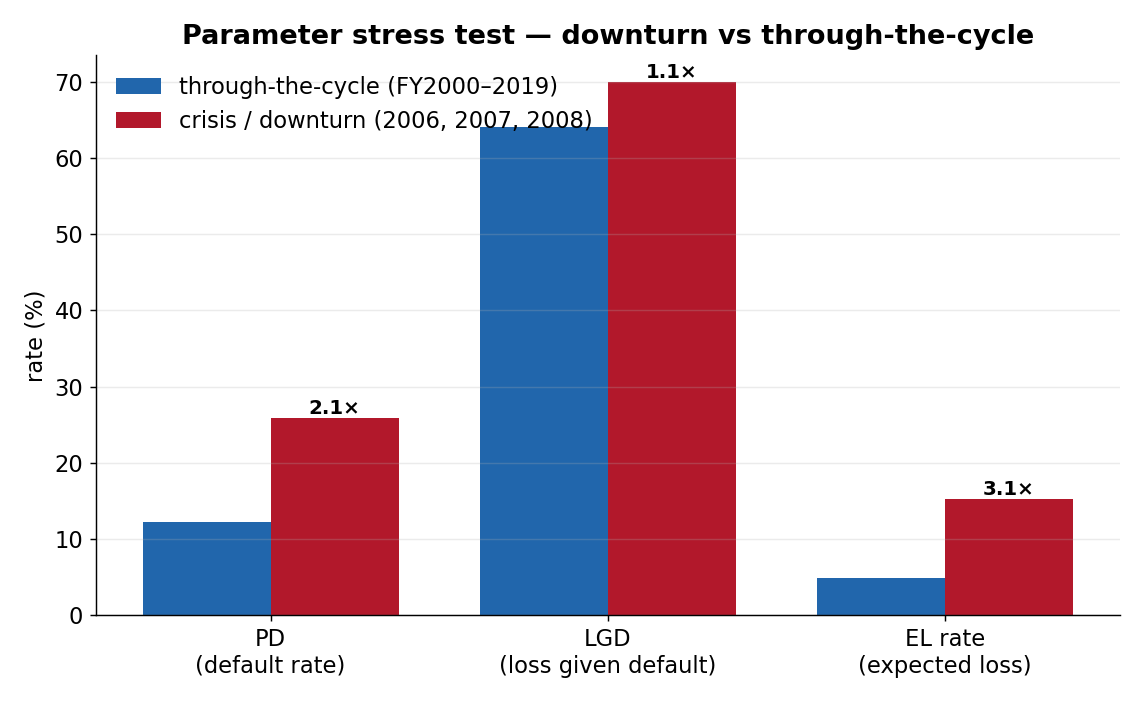
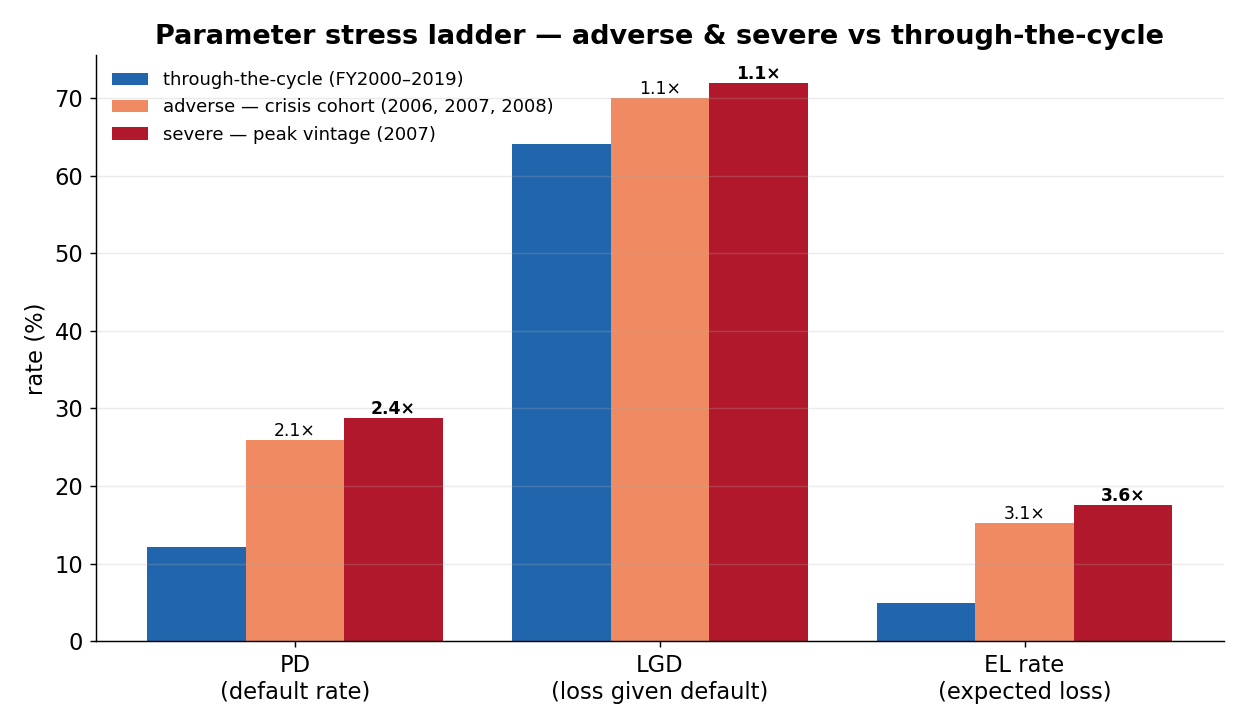
Show both downturn severities in the parameter stress
The SBA data holds one macro downturn (2008) but supports a two-level
stress ladder read off realised cohorts:
- adverse  = crisis cohort pooled (2006-08): EL rate 15.3% (3.1x)
- severe   = single worst vintage, auto-detected (2007 peak): EL 17.6% (3.6x)

credit_risk_parameters_stress now reports TTC + adverse + severe with
multipliers; report §10d, README §4 and the stress chart (3-bar ladder)
updated. README §4 also notes the two stress lenses in the repo: this
parameter stress (whole-book baseline) vs the limit-linked charge-off
stress in §9 (seasoned baseline). Tests updated (33 pass).

Changed region(s): [[0.0, 0.0897, 0.979, 0.9573], [0.1224, 0.0299, 0.9484, 0.0897], [0.9178, 0.7479, 0.9484, 0.7778]]

diff --git a/src/credit_parameters.py b/src/credit_parameters.py
@@ -136,22 +136,34 @@ def credit_risk_parameters_by_product(df: pd.DataFrame) -> pd.DataFrame:
 
 def credit_risk_parameters_stress(df: pd.DataFrame,
                                   config: dict | None = None) -> pd.DataFrame:
-    """Stress the parameters: through-the-cycle book vs the 2006-08 downturn.
+    """Stress the parameters using the two downturn severities the data contains.
 
-    The financial-crisis vintages the data already contains are used as a
-    realised, data-grounded downturn scenario. For each parameter we report the
-    through-the-cycle (whole-book) value, the crisis-cohort value, and the
-    implied **stress multiplier** (crisis / TTC). PD and LGD both rise in the
-    downturn, so EL rises multiplicatively — a downturn-PD / downturn-LGD view
-    for capital and limit-setting (the crisis vintages are fully seasoned, so
-    these are near-final outcomes).
+    The SBA data (FY2000-2019) holds one macro downturn — the 2008 financial
+    crisis — but it supports a two-level stress *ladder* read straight off the
+    realised cohorts:
+
+      * **Adverse / downturn** — the crisis cohort pooled (config
+        ``stress.crisis_vintages``, 2006-08).
+      * **Severe** — the single worst seasoned vintage (the peak of the crisis,
+        auto-detected by charge-off rate — 2007).
+
+    For each parameter we report the through-the-cycle (whole-book) value and
+    both stressed values with their multiplier vs TTC. PD and LGD both rise, so
+    EL rises multiplicatively — the downturn-PD / downturn-LGD inputs for
+    stressed pricing and capital. (Crisis vintages are fully seasoned, so these
+    are near-final outcomes.)
     """
     cfg = config or load_config()
     crisis_vintages = sorted(set(cfg["stress"]["crisis_vintages"]))
 
     ttc = _parameter_frame(df, None, "ttc").iloc[0]
-    crisis = _parameter_frame(
-        df[df["vintage"].isin(crisis_vintages)], None, "crisis").iloc[0]
+    downturn = _parameter_frame(
+        df[df["vintage"].isin(crisis_vintages)], None, "downturn").iloc[0]
+
+    # Severe = the single worst seasoned vintage by charge-off rate (auto).
+    seasoned = df[df["fully_seasoned"]]
+    peak_vintage = int(seasoned.groupby("vintage")["is_default"].mean().idxmax())
+    severe = _parameter_frame(df[df["vintage"] == peak_vintage], None, "severe").iloc[0]
 
     specs = [
         ("pd_count", "PD — default rate (obligor-weighted)"),
@@ -162,22 +174,24 @@ def credit_risk_parameters_stress(df: pd.DataFrame,
     ]
     rows = []
     for key, label in specs:
-        b, s = float(ttc[key]), float(crisis[key])
+        b, d, s = float(ttc[key]), float(downturn[key]), float(severe[key])
         rows.append({
             "metric_key": key,
             "parameter": label,
             "through_the_cycle": round(b, 4),
-            "crisis_downturn": round(s, 4),
-            "stress_multiplier": round(s / b, 2) if b else float("nan"),
+            "adverse_downturn": round(d, 4),
+            "adverse_multiplier": round(d / b, 2) if b else float("nan"),
+            "severe": round(s, 4),
+            "severe_multiplier": round(s / b, 2) if b else float("nan"),
         })
     out = pd.DataFrame(rows)
-    out["crisis_vintages"] = ", ".join(str(v) for v in crisis_vintages)
+    out["adverse_vintages"] = ", ".join(str(v) for v in crisis_vintages)
+    out["severe_vintage"] = peak_vintage
     _log.info(
-        "Parameter stress (crisis %s): PD %.1f%%->%.1f%%, LGD %.1f%%->%.1f%%, "
-        "EL %.1f%%->%.1f%%", crisis_vintages,
-        ttc["pd_count"] * 100, crisis["pd_count"] * 100,
-        ttc["lgd"] * 100, crisis["lgd"] * 100,
-        ttc["el_rate"] * 100, crisis["el_rate"] * 100,
+        "Parameter stress — EL rate: TTC %.1f%% -> adverse %.1f%% (%s) -> "
+        "severe %.1f%% (%d peak)",
+        ttc["el_rate"] * 100, downturn["el_rate"] * 100, crisis_vintages,
+        severe["el_rate"] * 100, peak_vintage,
     )
     return out
 

diff --git a/tools/make_figures.py b/tools/make_figures.py
@@ -118,26 +118,32 @@ ax.set_title("Expected-loss rate by sector")
 ax.grid(axis="y", alpha=0)
 save(fig, "el_by_sector.png")
 
-# 6. Parameter stress — downturn vs through-the-cycle ------------------------
+# 6. Parameter stress — the two downturn severities in the data --------------
 st = pd.read_csv(TAB / "09_credit_risk_parameters_stress.csv").set_index("metric_key")
-vint = str(st["crisis_vintages"].iloc[0])
+adv_v = str(st["adverse_vintages"].iloc[0])
+sev_v = int(st["severe_vintage"].iloc[0])
 keys = ["pd_count", "lgd", "el_rate"]
 labels = ["PD\n(default rate)", "LGD\n(loss given default)", "EL rate\n(expected loss)"]
 ttc = [st.loc[k, "through_the_cycle"] * 100 for k in keys]
-cri = [st.loc[k, "crisis_downturn"] * 100 for k in keys]
-mult = [st.loc[k, "stress_multiplier"] for k in keys]
+adv = [st.loc[k, "adverse_downturn"] * 100 for k in keys]
+sev = [st.loc[k, "severe"] * 100 for k in keys]
+adv_m = [st.loc[k, "adverse_multiplier"] for k in keys]
+sev_m = [st.loc[k, "severe_multiplier"] for k in keys]
 x = np.arange(len(keys))
-w = 0.38
-fig, ax = plt.subplots(figsize=(8.8, 5.4))
-ax.bar(x - w / 2, ttc, w, label="through-the-cycle (FY2000–2019)", color=BLUE)
-b2 = ax.bar(x + w / 2, cri, w, label=f"crisis / downturn ({vint})", color=RED)
-for xi, c, m in zip(x, cri, mult):
-    ax.text(xi + w / 2, c, f"{m:.1f}×", ha="center", va="bottom", fontsize=11, fontweight="bold")
+w = 0.27
+fig, ax = plt.subplots(figsize=(9.6, 5.6))
+ax.bar(x - w, ttc, w, label="through-the-cycle (FY2000–2019)", color=BLUE)
+ax.bar(x, adv, w, label=f"adverse — crisis cohort ({adv_v})", color="#ef8a62")
+ax.bar(x + w, sev, w, label=f"severe — peak vintage ({sev_v})", color=RED)
+for xi, v, m in zip(x, adv, adv_m):
+    ax.text(xi, v, f"{m:.1f}×", ha="center", va="bottom", fontsize=9.5)
+for xi, v, m in zip(x, sev, sev_m):
+    ax.text(xi + w, v, f"{m:.1f}×", ha="center", va="bottom", fontsize=9.5, fontweight="bold")
 ax.set_xticks(x)
 ax.set_xticklabels(labels)
 ax.set_ylabel("rate (%)")
-ax.set_title("Parameter stress test — downturn vs through-the-cycle")
-ax.legend(frameon=False)
+ax.set_title("Parameter stress ladder — adverse & severe vs through-the-cycle")
+ax.legend(frameon=False, fontsize=10)
 ax.grid(axis="x", alpha=0)
 save(fig, "parameters_stress.png")
 

diff --git a/src/report.py b/src/report.py
@@ -421,20 +421,23 @@ def build_markdown_report(
             a("")
 
         if credit_params_stress is not None and not credit_params_stress.empty:
-            vint = credit_params_stress["crisis_vintages"].iloc[0]
-            a(f"**10d. Parameter stress test — through-the-cycle vs the downturn "
-              f"({vint}).** The financial-crisis vintages are a realised, "
-              "data-grounded downturn: **both PD and LGD rise**, so EL rises "
-              "multiplicatively. These are the downturn-PD / downturn-LGD inputs "
-              "for stressed pricing and capital:")
+            adv = credit_params_stress["adverse_vintages"].iloc[0]
+            sev = int(credit_params_stress["severe_vintage"].iloc[0])
+            a("**10d. Parameter stress test — the two downturn severities in the "
+              "data.** The SBA data holds one macro downturn (the 2008 crisis) "
+              "but supports a two-level stress ladder read off realised cohorts: "
+              f"**adverse** = the crisis cohort pooled ({adv}); **severe** = the "
+              f"single worst vintage ({sev}, the peak). PD and LGD both rise, so "
+              "EL rises multiplicatively — downturn-PD / downturn-LGD inputs for "
+              "stressed pricing and capital:")
             a("")
-            a("| Parameter | Through-the-cycle | Crisis / downturn | Stress multiplier |")
-            a("|---|---|---|---|")
+            a(f"| Parameter | Through-the-cycle | Adverse ({adv}) | × | Severe ({sev}) | × |")
+            a("|---|---|---|---|---|---|")
             for _, r in credit_params_stress.iterrows():
-                money = r["metric_key"] == "ead_avg"
-                fmt = _fmt_money if money else _fmt_pct
+                fmt = _fmt_money if r["metric_key"] == "ead_avg" else _fmt_pct
                 a(f"| {r['parameter']} | {fmt(r['through_the_cycle'])} | "
-                  f"{fmt(r['crisis_downturn'])} | {r['stress_multiplier']:.2f}x |")
+                  f"{fmt(r['adverse_downturn'])} | {r['adverse_multiplier']:.2f}x | "
+                  f"{fmt(r['severe'])} | {r['severe_multiplier']:.2f}x |")
             a("")
 
     a("## Notes — APS 330 / Pillar 3 & governance")

diff --git a/tests/test_pipeline.py b/tests/test_pipeline.py
@@ -329,11 +329,13 @@ def test_credit_parameters_by_structure(base):
 def test_credit_parameters_stress(base, cfg):
     out = cp.credit_risk_parameters_stress(base, config=cfg)
     assert {"pd_count", "lgd", "el_rate"} <= set(out["metric_key"])
-    assert {"through_the_cycle", "crisis_downturn", "stress_multiplier"} <= set(out.columns)
-    # Crisis cohorts default worse → PD and EL multipliers exceed 1 in the fixture.
-    pd_row = out.set_index("metric_key").loc["pd_count"]
-    assert pd_row["crisis_downturn"] > pd_row["through_the_cycle"]
-    assert out.set_index("metric_key").loc["el_rate", "stress_multiplier"] > 1.0
+    assert {"through_the_cycle", "adverse_downturn", "adverse_multiplier",
+            "severe", "severe_multiplier"} <= set(out.columns)
+    s = out.set_index("metric_key")
+    # Crisis cohorts default worse than the book; severe (peak) >= adverse (pooled).
+    assert s.loc["pd_count", "adverse_downturn"] > s.loc["pd_count", "through_the_cycle"]
+    assert s.loc["el_rate", "adverse_multiplier"] > 1.0
+    assert s.loc["el_rate", "severe"] >= s.loc["el_rate", "adverse_downturn"]
 
 
 # --------------------------------------------------------------------------- #

diff --git a/README.md b/README.md
@@ -143,26 +143,37 @@ cost, opex and a capital charge. It varies ~9× across sectors:
 
 ## 4. Stress test — downturn PD / LGD / EL
 
-The 2006–08 financial-crisis vintages the data already contains are a **realised
-downturn scenario**. Both **PD and LGD rise**, so EL rises multiplicatively —
-the downturn-PD / downturn-LGD inputs for stressed pricing and capital
+The SBA data (FY2000–2019) contains **one** macro downturn — the 2008 financial
+crisis — but it supports a **two-level stress ladder** read straight off the
+realised cohorts (both are fully seasoned, so near-final):
+
+- **Adverse** = the crisis cohort pooled (2006–08)
+- **Severe** = the single worst vintage, the peak of the crisis (**2007**, auto-detected)
+
+Both **PD and LGD rise**, so EL rises multiplicatively
 ([09_…stress.csv](outputs/tables/09_credit_risk_parameters_stress.csv)):
 
-| Parameter | Through-the-cycle | Crisis / downturn (2006–08) | Stress multiplier |
-|---|---:|---:|---:|
-| PD — default rate (obligor-weighted) | 12.2% | 25.9% | **2.1×** |
-| PD — default rate (exposure-weighted) | 7.7% | 21.9% | **2.8×** |
-| LGD — loss given default | 64.0% | 70.0% | **1.1×** |
-| EAD — avg exposure per loan | $264,769 | $154,065 | 0.6× |
-| **EL rate — expected loss / exposure** | **4.9%** | **15.3%** | **3.1×** |
+| Parameter | Through-the-cycle | Adverse (2006–08) | × | Severe (2007) | × |
+|---|---:|---:|---:|---:|---:|
+| PD — default rate (obligor-weighted) | 12.2% | 25.9% | **2.1×** | 28.8% | **2.4×** |
+| PD — default rate (exposure-weighted) | 7.7% | 21.9% | **2.8×** | 24.4% | **3.2×** |
+| LGD — loss given default | 64.0% | 70.0% | **1.1×** | 71.9% | **1.1×** |
+| EAD — avg exposure per loan | $264,769 | $154,065 | 0.6× | $142,500 | 0.5× |
+| **EL rate — expected loss / exposure** | **4.9%** | **15.3%** | **3.1×** | **17.6%** | **3.6×** |
 
-![Parameter stress — downturn vs through-the-cycle](outputs/charts/parameters_stress.png)
+![Parameter stress ladder — adverse & severe vs through-the-cycle](outputs/charts/parameters_stress.png)
 
-The headline: **expected loss roughly triples (4.9% → 15.3%)** in a downturn,
-driven mostly by PD doubling with LGD adding ~9% on top. (EAD *falls* — crisis
-cohorts were smaller loans — so it is not a stress driver; exposure is fixed at
-approval.) This feeds the limit-linked charge-off stress in report §9 and
-[08_stress_scenario.csv](outputs/tables/08_stress_scenario.csv).
+The headline: **expected loss roughly triples** in a downturn (4.9% → 15.3%
+adverse → 17.6% severe), driven mostly by PD doubling with LGD adding ~9–12% on
+top. (EAD *falls* — crisis cohorts were smaller loans — so it is not a stress
+driver; exposure is fixed at approval.)
+
+> **Two stress views in the repo, by design.** This *parameter* stress (PD/LGD/EAD/EL,
+> whole-book TTC baseline) sits alongside the limit-linked **charge-off-rate
+> stress** in report §9 / [08_stress_scenario.csv](outputs/tables/08_stress_scenario.csv),
+> which uses a *seasoned-only* baseline (13.5%) so it can be re-tested against the
+> risk-appetite charge-off limit. Same crisis, two lenses — pricing/ECL inputs
+> here, appetite-limit breach there.
 
 ---
 

diff --git a/outputs/reports/report.md b/outputs/reports/report.md
@@ -255,15 +255,15 @@ _Realised, **through-the-cycle** parameters read off the FY2000-2019 outcome dat
 | Collateral | Secured | 436,969 | 8.8% | 62.9% | $410,653 | 3.4% |
 | Collateral | Unsecured | 650,050 | 14.5% | 64.8% | $166,705 | 7.5% |
 
-**10d. Parameter stress test — through-the-cycle vs the downturn (2006, 2007, 2008).** The financial-crisis vintages are a realised, data-grounded downturn: **both PD and LGD rise**, so EL rises multiplicatively. These are the downturn-PD / downturn-LGD inputs for stressed pricing and capital:
+**10d. Parameter stress test — the two downturn severities in the data.** The SBA data holds one macro downturn (the 2008 crisis) but supports a two-level stress ladder read off realised cohorts: **adverse** = the crisis cohort pooled (2006, 2007, 2008); **severe** = the single worst vintage (2007, the peak). PD and LGD both rise, so EL rises multiplicatively — downturn-PD / downturn-LGD inputs for stressed pricing and capital:
 
-| Parameter | Through-the-cycle | Crisis / downturn | Stress multiplier |
-|---|---|---|---|
-| PD — default rate (obligor-weighted) | 12.2% | 25.9% | 2.13x |
-| PD — default rate (exposure-weighted) | 7.7% | 21.9% | 2.85x |
-| LGD — loss given default | 64.0% | 70.0% | 1.09x |
-| EAD — avg exposure per loan ($) | $264,769 | $154,065 | 0.58x |
-| EL rate — expected loss / exposure | 4.9% | 15.3% | 3.11x |
+| Parameter | Through-the-cycle | Adverse (2006, 2007, 2008) | × | Severe (2007) | × |
+|---|---|---|---|---|---|
+| PD — default rate (obligor-weighted) | 12.2% | 25.9% | 2.13x | 28.8% | 2.36x |
+| PD — default rate (exposure-weighted) | 7.7% | 21.9% | 2.85x | 24.4% | 3.18x |
+| LGD — loss given default | 64.0% | 70.0% | 1.09x | 71.9% | 1.12x |
+| EAD — avg exposure per loan ($) | $264,769 | $154,065 | 0.58x | $142,500 | 0.54x |
+| EL rate — expected loss / exposure | 4.9% | 15.3% | 3.11x | 17.6% | 3.57x |
 
 ## Notes — APS 330 / Pillar 3 & governance
 